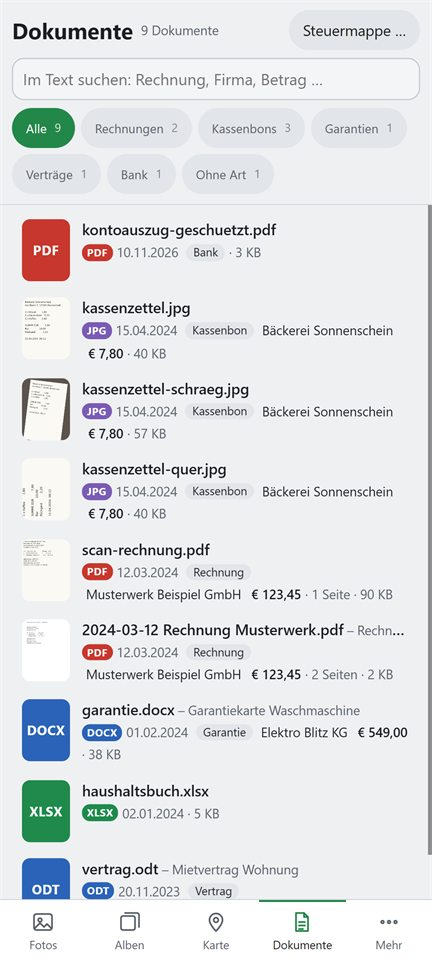
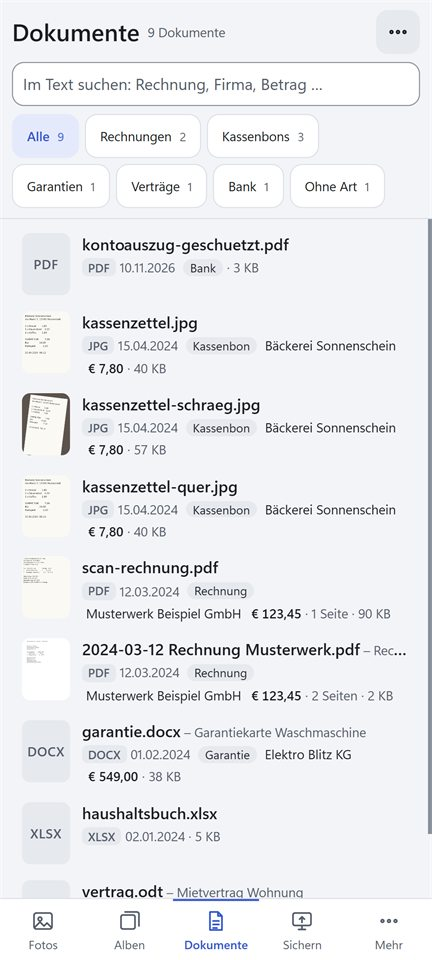
Webseite 0.3.0: Download direkt Setup 0.3.0, Sichern-Text, Bild Dokumente ohne Steuermappe, Datenschutz Stand 24.11.2026

diff --git a/de.html b/de.html
@@ -66,9 +66,9 @@
   <h1>Deine Fotos und Dokumente.<br><span>Ohne Cloud.</span></h1>
   <p class="lead">Unforget ist eine Galerie für deine Fotos und eine Ablage für deine Dokumente – geordnet, durchsuchbar und nur auf deinem Gerät, auf Wunsch abgeglichen mit deinem PC.</p>
   <div class="btns">
-    <a class="btn win" href="https://github.com/SkaFUU/Unforget-Releases/releases/latest">
+    <a class="btn win" href="https://github.com/SkaFUU/Unforget-Releases/releases/download/v0.3.0/Unforget-Setup-0.3.0.exe">
       <svg viewBox="0 0 24 24" fill="currentColor" aria-hidden="true"><path d="M3 5.5 10.5 4.4v7.1H3zM11.5 4.3 21 3v8.5h-9.5zM3 12.5h7.5v7.1L3 18.5zM11.5 12.5H21V21l-9.5-1.3z"/></svg>
-      <span>Für Windows herunterladen<small>kostenlos · Windows 10/11</small></span></a>
+      <span>Für Windows herunterladen<small>Version 0.3.0 · kostenlos · Windows 10/11</small></span></a>
     <span class="btn play" title="Google Play">
       <svg viewBox="0 0 24 24" fill="currentColor" aria-hidden="true"><path d="M4 2.8v18.4c0 .5.5.8.9.6L21 12.6c.4-.3.4-.9 0-1.2L4.9 2.2c-.4-.2-.9.1-.9.6z"/></svg>
       <span>Google Play<small>bald im Play Store – Test läuft</small></span></span>
@@ -83,7 +83,7 @@
     <li><img src="img/de/2-suche.jpg" alt="Suche nach „Gletscher“ findet passende Bilder" loading="lazy" width="432" height="960"><b>Alles finden.</b><span>Suche nach dem, was auf dem Bild ist – direkt am Handy.</span></li>
     <li><img src="img/de/3-alben.jpg" alt="Automatische Alben für Ausflüge und Urlaube" loading="lazy" width="432" height="960"><b>Alben, die sich selbst ordnen.</b><span>Urlaube und Ausflüge, erkannt an Datum und Ort.</span></li>
     <li><img src="img/de/5-bearbeiten.jpg" alt="Foto zuschneiden und geraderichten" loading="lazy" width="432" height="960"><b>Zuschneiden mit einem Tipp.</b><span>Zuschneiden, drehen, spiegeln, geraderichten – das Original ist zurückholbar.</span></li>
-    <li><img src="img/de/6-dokumente.jpg" alt="Dokumentliste mit Rechnungen, Kassenbons und Garantien" loading="lazy" width="432" height="960"><b>Rechnungen und PDFs, geordnet.</b><span>PDF, Word, Excel und Scans in einer Ablage.</span></li>
+    <li><img src="img/de/6-dokumente.jpg?v=0.3.0" alt="Dokumentliste mit Rechnungen, Kassenbons und Garantien" loading="lazy" width="432" height="960"><b>Rechnungen und PDFs, geordnet.</b><span>PDF, Word, Excel und Scans in einer Ablage – mit großer Ansicht zum Zoomen und Text kopieren.</span></li>
     <li><img src="img/de/7-dokument.jpg" alt="Rechnung mit Betrag und Zahlungsfrist" loading="lazy" width="432" height="960"><b>Fristen, die du nicht vergisst.</b><span>Datum, Betrag, Absender und Fristen werden am Gerät gelesen.</span></li>
   </ul>
 
@@ -92,14 +92,14 @@
     <div><h3>Bleibt auf deinem Gerät</h3><p>Fotos, Gesichter, Namen und Dokumente verlassen nie dein Handy oder deinen PC. Kein Konto, keine Werbung, keine Analyse – alles funktioniert offline.</p></div>
     <div><h3>Findet, was du suchst</h3><p>Suche nach Inhalt („Traktor“, „Sonnenuntergang“), nach Person, Ort und Datum – und im Text deiner Dokumente.</p></div>
     <div><h3>Dokumente mit Fristen</h3><p>Rechnungen, Kassenbons, Garantien und Verträge: Unforget liest Art, Betrag und Absender und erinnert an fällige Zahlungen und ablaufende Garantien.</p></div>
-    <div><h3>Handy und PC im Abgleich</h3><p>Per QR-Code mit Unforget für Windows koppeln. Neue Fotos kommen wie eine Sicherung auf den PC, Namen und Alben gleichen sich in beide Richtungen ab – direkt im eigenen WLAN, verschlüsselt.</p></div>
+    <div><h3>Handy und PC im Abgleich</h3><p>Per QR-Code mit Unforget für Windows verbinden. Du wählst, welche Ordner gesichert werden – auch im Hintergrund, standardmäßig nur im WLAN. Namen und Alben gleichen sich in beide Richtungen ab – direkt im eigenen WLAN, verschlüsselt.</p></div>
   </div>
 
   <h2>Herunterladen</h2>
   <div class="dl">
     <h3>Windows</h3>
     <ol>
-      <li><a href="https://github.com/SkaFUU/Unforget-Releases/releases/latest">Neueste Version</a> öffnen und <b>Unforget-Setup-<i>Version</i>.exe</b> laden (nicht „Update“).</li>
+      <li><a href="https://github.com/SkaFUU/Unforget-Releases/releases/download/v0.3.0/Unforget-Setup-0.3.0.exe"><b>Unforget-Setup-0.3.0.exe</b></a> laden (rund 310 MB) und starten. Alle Versionen: <a href="https://github.com/SkaFUU/Unforget-Releases/releases/latest">Releases</a> – dort „Setup“ nehmen, nicht „Update“.</li>
       <li>Beim ersten Start zeigt Windows evtl. „Der Computer wurde durch Windows geschützt“ (die App ist neu): <b>Weitere Informationen → Trotzdem ausführen</b>.</li>
     </ol>
   </div>

diff --git a/index.html b/index.html
@@ -70,9 +70,9 @@
   <h1>Your photos and documents.<br><span>No cloud.</span></h1>
   <p class="lead">Unforget is a gallery for your photos and a home for your documents – organized, searchable and kept on your device, synced with your PC if you like.</p>
   <div class="btns">
-    <a class="btn win" href="https://github.com/SkaFUU/Unforget-Releases/releases/latest">
+    <a class="btn win" href="https://github.com/SkaFUU/Unforget-Releases/releases/download/v0.3.0/Unforget-Setup-0.3.0.exe">
       <svg viewBox="0 0 24 24" fill="currentColor" aria-hidden="true"><path d="M3 5.5 10.5 4.4v7.1H3zM11.5 4.3 21 3v8.5h-9.5zM3 12.5h7.5v7.1L3 18.5zM11.5 12.5H21V21l-9.5-1.3z"/></svg>
-      <span>Download for Windows<small>free · Windows 10/11</small></span></a>
+      <span>Download for Windows<small>version 0.3.0 · free · Windows 10/11</small></span></a>
     <span class="btn play" title="Google Play">
       <svg viewBox="0 0 24 24" fill="currentColor" aria-hidden="true"><path d="M4 2.8v18.4c0 .5.5.8.9.6L21 12.6c.4-.3.4-.9 0-1.2L4.9 2.2c-.4-.2-.9.1-.9.6z"/></svg>
       <span>Google Play<small>coming soon – testing in progress</small></span></span>
@@ -87,7 +87,7 @@
     <li><img src="img/en/2-suche.jpg" alt="Search for “glacier” finds matching pictures" loading="lazy" width="432" height="960"><b>Find anything.</b><span>Search by what’s in the picture – on the phone.</span></li>
     <li><img src="img/en/3-alben.jpg" alt="Automatic albums for trips and holidays" loading="lazy" width="432" height="960"><b>Albums that make themselves.</b><span>Holidays and day trips, detected by date and place.</span></li>
     <li><img src="img/en/5-bearbeiten.jpg" alt="Crop and straighten a photo" loading="lazy" width="432" height="960"><b>Crop and rotate.</b><span>Crop, rotate, flip, straighten – the original can be restored.</span></li>
-    <li><img src="img/en/6-dokumente.jpg" alt="Document list with invoices, receipts and warranties" loading="lazy" width="432" height="960"><b>Invoices and PDFs, sorted.</b><span>PDF, Word, Excel and scans in one place.</span></li>
+    <li><img src="img/en/6-dokumente.jpg?v=0.3.0" alt="Document list with invoices, receipts and warranties" loading="lazy" width="432" height="960"><b>Invoices and PDFs, sorted.</b><span>PDF, Word, Excel and scans in one place – with a large view to zoom and copy text.</span></li>
     <li><img src="img/en/7-dokument.jpg" alt="Invoice with amount and due date" loading="lazy" width="432" height="960"><b>Due dates you won’t forget.</b><span>Date, amount, sender and deadlines are read on the device.</span></li>
   </ul>
 
@@ -96,14 +96,14 @@
     <div><h3>Stays on your device</h3><p>Photos, faces, names and documents never leave your phone or PC. No account, no ads, no analytics – it all works offline.</p></div>
     <div><h3>Finds what you’re looking for</h3><p>Search by content (“tractor”, “sunset”), by person, place and date – and inside the text of your documents.</p></div>
     <div><h3>Documents with deadlines</h3><p>Invoices, receipts, warranties and contracts: Unforget reads type, amount and sender and reminds you of payments due and warranties expiring.</p></div>
-    <div><h3>Phone and PC in sync</h3><p>Pair with Unforget for Windows by QR code. New photos arrive on the PC like a backup, names and albums sync both ways – directly over your own Wi‑Fi, encrypted.</p></div>
+    <div><h3>Phone and PC in sync</h3><p>Connect to Unforget for Windows by QR code. You choose which folders are backed up – in the background too, Wi‑Fi only by default. Names and albums sync both ways – directly over your own Wi‑Fi, encrypted.</p></div>
   </div>
 
   <h2>Download</h2>
   <div class="dl">
     <h3>Windows</h3>
     <ol>
-      <li>Open the <a href="https://github.com/SkaFUU/Unforget-Releases/releases/latest">latest release</a> and download <b>Unforget-Setup-<i>version</i>.exe</b> (not “Update”).</li>
+      <li>Download <a href="https://github.com/SkaFUU/Unforget-Releases/releases/download/v0.3.0/Unforget-Setup-0.3.0.exe"><b>Unforget-Setup-0.3.0.exe</b></a> (about 310 MB) and run it. All versions: <a href="https://github.com/SkaFUU/Unforget-Releases/releases/latest">releases</a> – take “Setup”, not “Update”.</li>
       <li>On first start Windows may say “Windows protected your PC” (the app is new): <b>More info → Run anyway</b>.</li>
     </ol>
   </div>

diff --git a/datenschutz.html b/datenschutz.html
@@ -23,7 +23,7 @@
 <a class="lang" href="privacy.html" lang="en">English</a>
 <p style="margin:0 0 8px"><a href="de.html">← Unforget Startseite</a></p>
 <h1>Datenschutzerklärung für Unforget</h1>
-<p class="meta">Gilt für die App Unforget für Android und Windows · Stand: 15. November 2026</p>
+<p class="meta">Gilt für die App Unforget für Android und Windows · Stand: 24. November 2026</p>
 
 <div class="box">
 <p><b>Kurz gesagt:</b> Unforget arbeitet auf deinem Gerät. Es gibt keine Konten, keine Werbung, keine Analyse und keinen Server von uns. Deine Fotos, Dokumente, Namen und Gesichtsmerkmale verlassen das Gerät nicht – außer du gleichst sie selbst mit deinem eigenen PC ab (im eigenen WLAN, verschlüsselt) oder schaltest eine der mit 🌐 markierten Online-Funktionen ein.</p>
@@ -42,7 +42,7 @@
 <p>Diese Daten bleiben auf dem Gerät. Wir (die Entwickler) bekommen sie nie zu sehen. Wenn du Unforget deinstallierst, löscht Android die Datenbank und die Vorschaubilder. Deine Fotos und Dokumente selbst bleiben erhalten.</p>
 
 <h2>2. Gesichtsmerkmale</h2>
-<p>Unforget erkennt Gesichter auf deinen Fotos und berechnet daraus Merkmale (eine Zahlenfolge), um Fotos derselben Person zu gruppieren. Das geschieht ausschließlich auf deinem Gerät; die Erkennungsmodelle laufen lokal (am Handy kommen sie auf deinen Wunsch als 🌐 Zusatzpaket dazu, siehe Punkt 5). Gesichtsmerkmale werden nie ins Internet übertragen, auch nicht an uns. Beim Abgleich mit deinem eigenen PC werden nur die Namen und Zuordnungen abgeglichen; der PC berechnet die Merkmale selbst. Du kannst die Gesichtserkennung in den Einstellungen ausschalten. Alle gespeicherten Merkmale löschst du zusammen mit den übrigen App-Daten (Android: App-Info → Speicher → Daten löschen, oder App deinstallieren).</p>
+<p>Unforget erkennt Gesichter auf deinen Fotos und berechnet daraus Merkmale (eine Zahlenfolge), um Fotos derselben Person zu gruppieren. Das geschieht ausschließlich auf deinem PC in Unforget für Windows; die Erkennungsmodelle laufen lokal. Die Android-App erkennt keine Gesichter und erhält nur die Namen über den Abgleich. Gesichtsmerkmale werden nie ins Internet übertragen, auch nicht an uns. Beim Abgleich mit deinem eigenen PC werden nur die Namen und Zuordnungen abgeglichen; der PC berechnet die Merkmale selbst. Du kannst die Gesichtserkennung in den Einstellungen ausschalten. Alle gespeicherten Merkmale löschst du zusammen mit den übrigen App-Daten (Android: App-Info → Speicher → Daten löschen, oder App deinstallieren).</p>
 
 <h2>3. Berechtigungen</h2>
 <ul>
@@ -52,7 +52,7 @@
 </ul>
 
 <h2>4. Abgleich mit deinem PC</h2>
-<p>Du kannst Unforget am Handy mit Unforget auf deinem eigenen PC verbinden (QR-Code). Dann werden neue Fotos zum PC gesendet und Namen, Alben und Angaben in beide Richtungen abgeglichen. Die Verbindung läuft direkt zwischen deinen Geräten im eigenen WLAN – nicht über das Internet und nicht über einen Server. Alle Daten sind dabei mit einem Schlüssel verschlüsselt, den nur deine beiden Geräte kennen (ChaCha20-Poly1305).</p>
+<p>Du kannst Unforget am Handy mit Unforget auf deinem eigenen PC verbinden (QR-Code). Dann werden die Fotos und Dateien der Ordner, die du zum Sichern wählst, zum PC gesendet (auf Wunsch auch im Hintergrund) und Namen, Alben und Angaben in beide Richtungen abgeglichen. Die Verbindung läuft direkt zwischen deinen Geräten im eigenen WLAN – nicht über das Internet und nicht über einen Server. Alle Daten sind dabei mit einem Schlüssel verschlüsselt, den nur deine beiden Geräte kennen (ChaCha20-Poly1305).</p>
 
 <h2>5. Freiwillige Online-Funktionen (🌐)</h2>
 <p>Alle Online-Funktionen sind zu Beginn ausgeschaltet und in der App mit 🌐 gekennzeichnet. Erst wenn du zustimmst bzw. sie benutzt, stellt Unforget eine Verbindung zu diesen Diensten her. Dabei sieht der jeweilige Dienst technisch bedingt deine IP-Adresse; es gelten dessen Datenschutzbestimmungen.</p>

diff --git a/privacy.html b/privacy.html
@@ -23,7 +23,7 @@
 <a class="lang" href="datenschutz.html" lang="de">Deutsch</a>
 <p style="margin:0 0 8px"><a href="index.html?en">← Unforget home</a></p>
 <h1>Privacy Policy for Unforget</h1>
-<p class="meta">Applies to the Unforget app for Android and Windows · Last updated: 15 November 2026</p>
+<p class="meta">Applies to the Unforget app for Android and Windows · Last updated: 24 November 2026</p>
 
 <div class="box">
 <p><b>In short:</b> Unforget works on your device. There are no accounts, no ads, no analytics and no server of ours. Your photos, documents, names and face features do not leave the device – unless you sync them yourself with your own PC (on your own Wi-Fi, encrypted) or switch on one of the online features marked 🌐.</p>
@@ -42,7 +42,7 @@
 <p>This data stays on the device. We (the developers) never see it. When you uninstall Unforget, Android deletes the database and thumbnails. Your photos and documents themselves are kept.</p>
 
 <h2>2. Face features</h2>
-<p>Unforget detects faces in your photos and computes features from them (a sequence of numbers) to group photos of the same person. This happens only on your device; the recognition models run locally (on the phone they are added as a 🌐 add-on pack when you ask for it, see section 5). Face features are never transferred to the internet, not to us either. When syncing with your own PC, only names and assignments are synced; the PC computes the features itself. You can switch off face recognition in the settings. You delete all stored features together with the rest of the app data (Android: App info → Storage → Clear data, or uninstall the app).</p>
+<p>Unforget detects faces in your photos and computes features from them (a sequence of numbers) to group photos of the same person. This happens only on your PC in Unforget for Windows; the recognition models run locally. The Android app does not detect faces and only receives the names through syncing. Face features are never transferred to the internet, not to us either. When syncing with your own PC, only names and assignments are synced; the PC computes the features itself. You can switch off face recognition in the settings. You delete all stored features together with the rest of the app data (Android: App info → Storage → Clear data, or uninstall the app).</p>
 
 <h2>3. Permissions</h2>
 <ul>
@@ -52,7 +52,7 @@
 </ul>
 
 <h2>4. Syncing with your PC</h2>
-<p>You can connect Unforget on your phone with Unforget on your own PC (QR code). New photos are then sent to the PC, and names, albums and details are synced both ways. The connection runs directly between your devices on your own Wi-Fi – not over the internet and not through a server. All data is encrypted with a key known only to your two devices (ChaCha20-Poly1305).</p>
+<p>You can connect Unforget on your phone with Unforget on your own PC (QR code). The photos and files of the folders you choose to back up are then sent to the PC (in the background too, if you like), and names, albums and details are synced both ways. The connection runs directly between your devices on your own Wi-Fi – not over the internet and not through a server. All data is encrypted with a key known only to your two devices (ChaCha20-Poly1305).</p>
 
 <h2>5. Optional online features (🌐)</h2>
 <p>All online features are off at first and marked 🌐 in the app. Only when you agree or use them does Unforget connect to these services. For technical reasons the service sees your IP address; its own privacy policy applies.</p>
